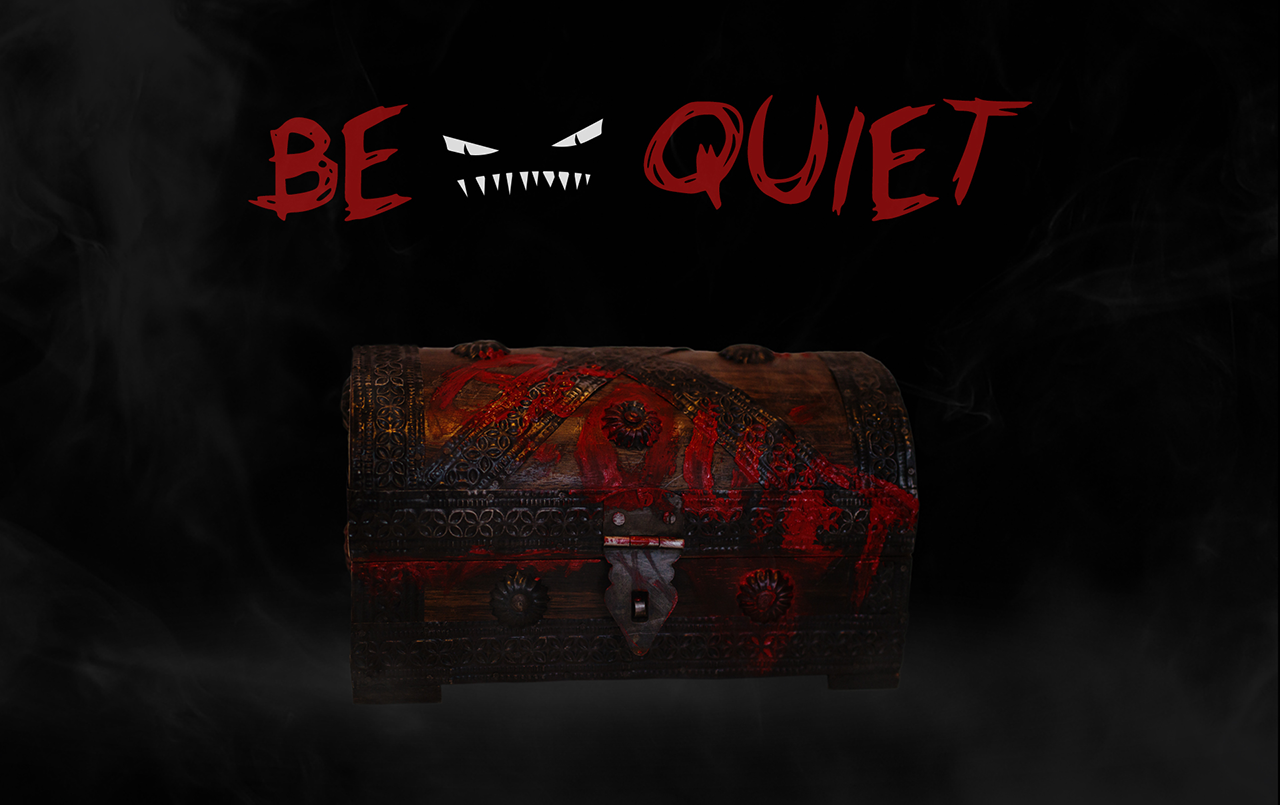
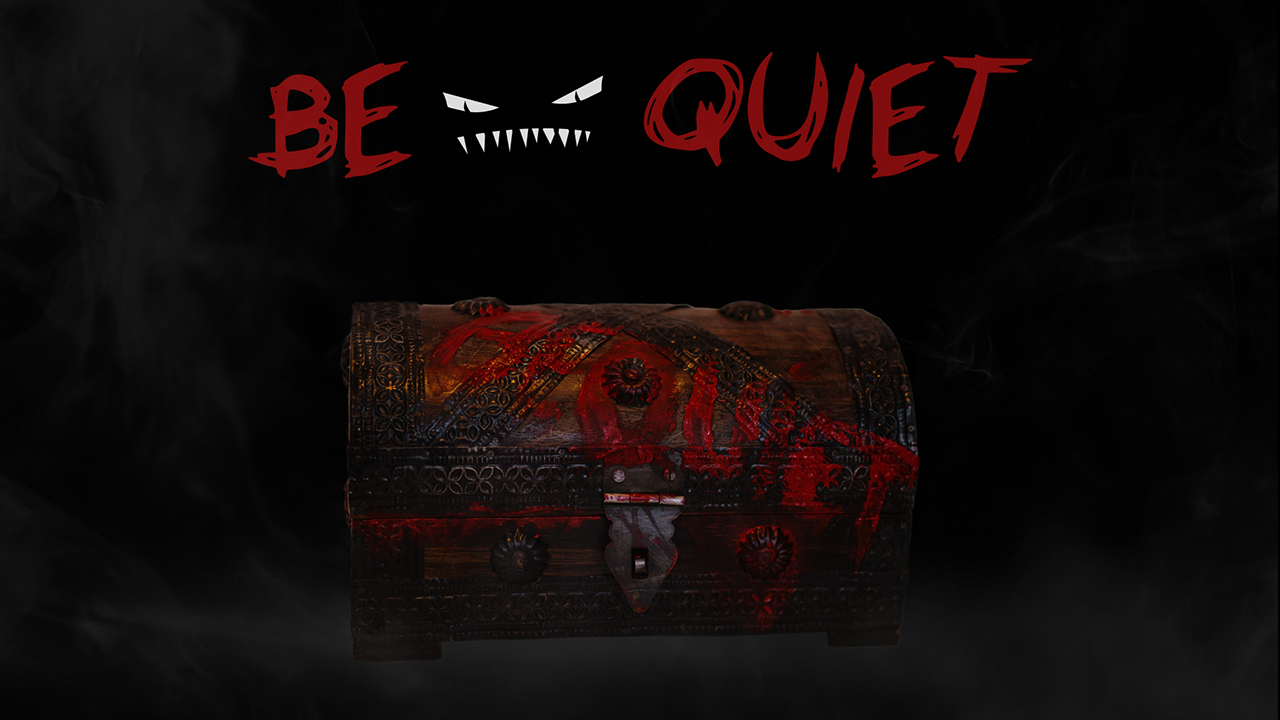
updated read me, fixed screenshot-size, added missing exercises

diff --git a/exercises/bildspaziergang/ebird-design/README.md b/exercises/bildspaziergang/ebird-design/README.md
@@ -1,6 +1,35 @@
 ![image](screenshot.png)  
-#TITLE  
-##DESCRIPTION  
-##[AUTHOR](https://github.com/ebird-design)  
-Hello my name is [ebird-design](https://github.com/ebird-design) and I'd like to say... 
+#TITLE
+GPS-WALK – HUFEISEN
+– Kurs: Eingabe/Ausgabe, Prof. Monika Hoinkis und Fabian Morón Zirfas
+– Wintersemester 13/14
+
+
+##DESCRIPTION
+Verfasse eine Wegbeschreibung und lasse diese von einem Kommilitonen ablaufen. Der Weg soll über GPS getracked werden und später eine möglichst interessante Form ergeben.
+
+##EXECUTION
+Die Aufgabe wurde jeweils in Zweierteams bearbeitet. Paul Lehmann lief einen von mir erdachten Weg ab und ich lief im Gegenzug einen Kurs nach seinen Vorgaben.
+Es folgt der Kurs den ich mir für Paul ausgedacht habe. Die Infrastruktur der Straßen in seiner Gegend boten es an ihn einen Kurs in der Form eines Hufeisen lassen zu lassen.
+–– Start ist „Sondershauser Straße 107A in Berlin“.
+Gehe Richtung „Lichterfelder Ring“ und biege dann rechts auf „Lichterfelder Ring“ ab. Biege
+rechts in die „Stanzer Zeile“ ab.
+Biege rechts auf die „Hilburghauser Straße“ ab. Biege dann rechts in den „Pertisauer Weg“
+ab. Biege links in den „Heiterwanger Weg“ ab.
+Biege links in den „Fügener Weg“ ab. Biege rechts auf die „Hilburghauser Straße“ ab. Biege
+rechts in die „Sondershauser Straße ab. Ziel ist die „Sondershauser Straße 107A“.––
+
+
+##AUTHOR  
+Tim Ebert
+FH-Potsdam
+1. Semester Interface Design
+[ebird-design]
+
+
 ##LICENSE  
+	This program is free software: you can redistribute it and/or modify it under the terms of the GNU General Public License as published by the Free Software Foundation, either version 3 of the License, or (at your option) any later version.
+
+    This program is distributed in the hope that it will be useful, but WITHOUT ANY WARRANTY; without even the implied warranty of MERCHANTABILITY or FITNESS FOR A PARTICULAR PURPOSE.  See the GNU General Public License for more details.
+
+    You should have received a copy of the GNU General Public License along with this program.  If not, see <http://www.gnu.org/licenses/

diff --git a/exercises/bildmaschine/ebird-design/README.md b/exercises/bildmaschine/ebird-design/README.md
@@ -1,6 +1,28 @@
 ![image](screenshot.png)  
-#TITLE  
-##DESCRIPTION  
+#TITLE
+15 SECOND ALPHABET
+– Kurs: Eingabe/Ausgabe, Prof. Monika Hoinkis und Fabian Morón Zirfas
+– Wintersemester 13/14
+
+
+##DESCRIPTION
+Ziel der Aufgabe war es einen freiwählbaren Text zu wählen und diesen von Kommilitonen im Eyetrackinglabor lesen zu lassen. Die daraus enstandenen Daten sollten dann grafisch ansprechend zu einem Gesamtkunstwerk verarbeitet werden.
+
+Die Idee war es ein Alphabet ausschließlich durch die Bewegung von Augen zeichnen zu lassen. Hierzu wurde die Schrift "Coronet LT Std" im Eyetracking-Labor von zwei Testpersonen gelesen. Jeder Buchstabe des Alphabets wurde dabei für jeweils 15 Sekunden präsentiert. 
+
+Die Eyetracking-Daten der beiden Testpersonen wurden für jeden Buchstaben jeweils übereinander gelegt um durch eine farbliche Kennzeichnung sowohl die einzelnen Ergebnisse als auch die Schnittmenge auf einen Blick zu visualisieren. Alle Buchstaben wurden schließlich in einem DinA3-Poster aufgereiht.
+
+
 ##AUTHOR  
-Hello my name is [ebird-design](https://github.com/ebird-design) and I'd like to say... 
+Tim Ebert
+FH-Potsdam
+1. Semester Interface Design
+[ebird-design]
+
+
 ##LICENSE  
+	This program is free software: you can redistribute it and/or modify it under the terms of the GNU General Public License as published by the Free Software Foundation, either version 3 of the License, or (at your option) any later version.
+
+    This program is distributed in the hope that it will be useful, but WITHOUT ANY WARRANTY; without even the implied warranty of MERCHANTABILITY or FITNESS FOR A PARTICULAR PURPOSE.  See the GNU General Public License for more details.
+
+    You should have received a copy of the GNU General Public License along with this program.  If not, see <http://www.gnu.org/licenses/

diff --git a/exercises/multitouch-experiments/ebird-design/README.md b/exercises/multitouch-experiments/ebird-design/README.md
@@ -2,6 +2,7 @@
 #TITLE
 FIREWORK FINGERS V1.0
 – Kurs: Eingabe/Ausgabe, Prof. Monika Hoinkis und Fabian Morón Zirfas
+– Wintersemester 13/14
 
 
 ##DESCRIPTION
@@ -12,7 +13,10 @@ Das im Beispielordner von Processing vorhandene Partikelsystem wurde für Tuio u
 Momentan verdoppelt sich die Geschwindigkeit des Partikels mit jedem zusätzlichen Finger den man auf die Touchoberfläche auflegt.
 
 ##AUTHOR  
-Hello my name is [ebird-design](https://github.com/ebird-design) and I'd like to say... 
+Tim Ebert
+FH-Potsdam
+1. Semester Interface Design
+[ebird-design]
 
 
 ##LICENSE  

diff --git a/exercises/patternprocedure-analog-digital/ebird-design/README.md b/exercises/patternprocedure-analog-digital/ebird-design/README.md
@@ -2,6 +2,7 @@
 #TITLE
 INFINITE TRIANGLES
 – Kurs: Eingabe/Ausgabe, Prof. Monika Hoinkis und Fabian Morón Zirfas
+– Wintersemester 13/14
 
 
 ##DESCRIPTION
@@ -19,7 +20,10 @@ Einige der Anweisungen, die für Menschen recht einfach umzusetzen sind, erwiese
 
 
 ##AUTHOR  
-Hello my name is [ebird-design](https://github.com/ebird-design) and I'd like to say... 
+Tim Ebert
+FH-Potsdam
+1. Semester Interface Design
+[ebird-design]
 
 
 ##LICENSE  

diff --git a/exercises/IOApparate/ebird-design/README.md b/exercises/IOApparate/ebird-design/README.md
@@ -3,6 +3,7 @@
 #TITLE
 BE QUIET
 – Kurs: Eingabe/Ausgabe, Prof. Monika Hoinkis und Fabian Morón Zirfas
+– Wintersemester 13/14
 
 
 ##DESCRIPTION
@@ -11,7 +12,10 @@ Die bedrohliche Aufmachung der Kiste soll suggerieren das sich im Inneren eine g
 
 
 ##AUTHOR  
-Hello my name is [ebird-design](https://github.com/ebird-design) and I'd like to say... 
+Tim Ebert
+FH-Potsdam
+1. Semester Interface Design
+[ebird-design]
 
 
 ##LICENSE  
